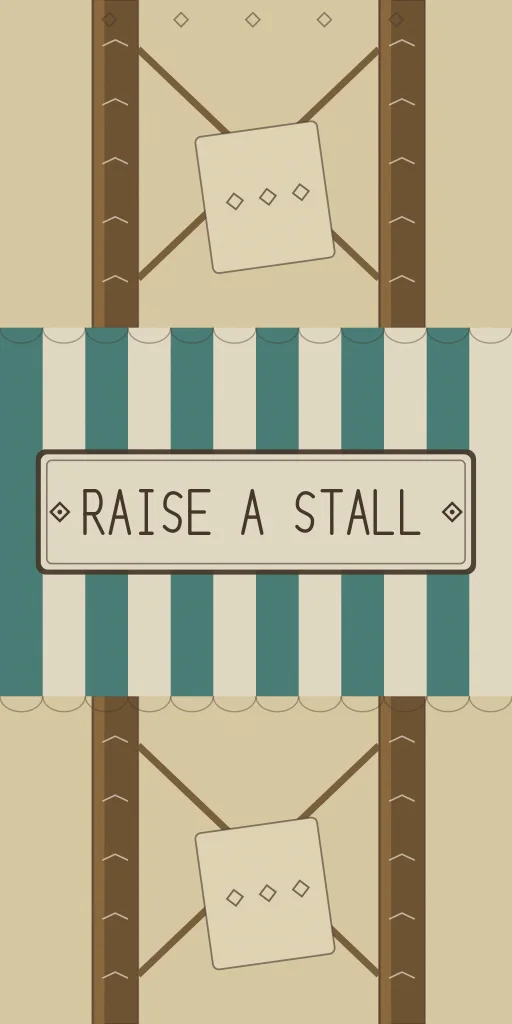
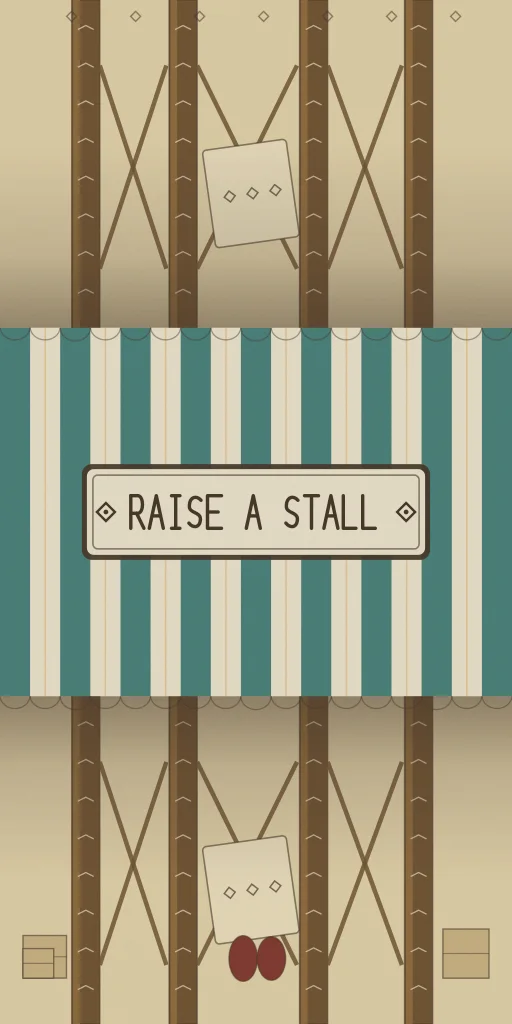
fix(labs/storybook): s6 bazaar polish — city value, pigeon die-cut, stall scale, turn-cull
Four scoped s6 fixes off the board eye-test; no geometry moves.

CITY BACKDROP too pale: the plane started at roseLit and then took a 0.62
sandLit haze, leaving a near-uniform wash the die-cut dome skyline had no
value to read against. Ground drops to `rose`, the haze top stop 0.62 ->
0.30 and its base ink 0.18 -> 0.34, the sky-band lift halves, and the
concentric street rings become the plane's value ladder (roseDim/terraDim)
instead of a tonal repeat of it. Soft recession kept; the crowns now have a
step against the black sky.

BLANK FINIAL at the backdrop crown was ch5-pigeon-a. Its painter built a
`pigeonCut` clipPath into a `defs` string and then never passed it to
svgPiece — a dangling url(#...) reference is ignored rather than honoured, so
the die-cut silently stopped cutting, the #b3a49c ground rect filled the
tile, and the piece baked with NO ALPHA and rendered as a kraft chevron. Both
pigeons now cut to their bird silhouette. (Audited every other painter: this
was the only dangling defs in the file.)

RAISE-A-STALL read as a giant tent, and the cause was stripe cadence, not
size. Its deck spans 0.28 world; at 12 stripes that is 0.0233 world/stripe
against the ~0.0165 every other awning in the spread paints, so the piece
nearest the reader announced itself as half again as big as the souk behind
it. Now 17 stripes at the house cadence, a valance scalloped to that pitch, a
saffron sub-stripe, four slim posts + crates/jars as scale rulers, a
[…]

diff --git a/components/labs/storybook/book/popup-tabpiece-layer.tsx b/components/labs/storybook/book/popup-tabpiece-layer.tsx
@@ -48,6 +48,7 @@ import {
   type TabPieceFace,
 } from './popup-tabpiece'
 import { peakHeight, shadowLift } from './shadow-light'
+import { turnCullOpacity } from './turn-cull'
 import { easeTurnWeighted } from './page-geometry'
 import { TURN_MS, type TurnFrame } from './use-turn-driver'
 import { useArtTexture } from './use-layer-texture'
@@ -212,6 +213,13 @@ export function TabPiecePopupLayer({
     [patches]
   )
 
+  // TURN-CULL opt-in (C-3). A culled piece must be able to RAMP, and an
+  // opacity ramp needs materials this piece alone owns and may write — the
+  // pool's own contract forbids mutating a shared material's opacity. So the
+  // flag also decides two allocation questions below: transparent exteriors,
+  // and an unpooled interior. Un-culled pieces keep the E-G4 pooling exactly.
+  const culled = layer.turnCull === true
+
   const paperTexture = sharedPaperTexture()
   const tabGripTexture = sharedTabGripTexture()
   const materials = useMemo(() => {
@@ -220,17 +228,35 @@ export function TabPiecePopupLayer({
         new THREE.MeshBasicMaterial({
           side: THREE.FrontSide,
           color: isShaded(p.face) ? PAINTED_FOLD_SHADE : '#ffffff',
+          transparent: culled,
         })
     )
     return { exterior }
-  }, [patches])
+  }, [patches, culled])
   // Every tab piece's underside is the same raw-paper-stock BackSide wall,
   // pooled (E-G4 fix wave) — shared with box/platform's interior material.
+  // A culled piece owns its copy instead: the pool is only safe for materials
+  // nobody writes after acquiring, and this one's opacity is written per frame
+  // through the cull ramp.
   const interiorMaterial = useMemo(
-    () => acquireMaterial({ side: THREE.BackSide, map: paperTexture, color: INTERIOR_SHADOW_TINT }),
-    [paperTexture]
+    () =>
+      culled
+        ? new THREE.MeshBasicMaterial({
+            side: THREE.BackSide,
+            map: paperTexture,
+            color: INTERIOR_SHADOW_TINT,
+            transparent: true,
+          })
+        : acquireMaterial({ side: THREE.BackSide, map: paperTexture, color: INTERIOR_SHADOW_TINT }),
+    [paperTexture, culled]
   )
-  useEffect(() => () => releaseMaterial(interiorMaterial), [interiorMaterial])
+  useEffect(
+    () => () => {
+      if (culled) interiorMaterial.dispose()
+      else releaseMaterial(interiorMaterial)
+    },
+    [interiorMaterial, culled]
+  )
 
   // The invisible grab handles (law H3/H6): an exact-tab mesh for mouse/pen
   // precision and a 1.5x slop mesh for touch. Both raycast (object visible)
@@ -420,12 +446,27 @@ export function TabPiecePopupLayer({
     )
     const beta = thetaL - thetaR
 
-    const visible = role !== 'hidden' && beta > FLAT_EPSILON
+    // TURN-CULL (C-3, the dial/winch/dissolve lever): a playable tab piece is
+    // the reader's instrument, not the spread's structure — mid-turn it is a
+    // sliver on a sheet sweeping past at speed and nobody is reading it, so it
+    // stops drawing and ramps back across the landing settle. `frame.t` is the
+    // driver's RAW published progress (turn-cull.ts is explicit that the eased
+    // value is still ~0 a fifth of the way in, which would put the fade nowhere
+    // near the specified window). Everything below — pose, lift, envelope,
+    // fold-flat — is untouched; hiding the group is what returns the draws.
+    const cull = culled ? turnCullOpacity(f?.t ?? 0) : 1
+    const visible = role !== 'hidden' && beta > FLAT_EPSILON && cull > 0
     group.visible = visible
     if (shadowGroupRef.current) shadowGroupRef.current.visible = visible
     if (!visible) {
       prevStructRef.current = null
       return
+    }
+    if (culled) {
+      for (const m of materials.exterior) m.opacity = cull
+      interiorMaterial.opacity = cull
+      for (const m of edgeMaterials) m.opacity = 0.8 * cull // its rest opacity, ramped
+      slitMaterial.opacity = 0.9 * cull
     }
 
     // --- Effective lift (laws H2/H3): reader drive, release return, or cam.
@@ -490,7 +531,7 @@ export function TabPiecePopupLayer({
     slitAttr.needsUpdate = true
     slitGeometry.computeBoundingSphere()
 
-    shadowMaterial.opacity = shadowSpec.maxOpacity * Math.sin(beta / 2) ** 2
+    shadowMaterial.opacity = shadowSpec.maxOpacity * Math.sin(beta / 2) ** 2 * cull
     prevStructRef.current = structVerts(solved)
   })
 

diff --git a/__tests__/labs/storybook/turn-cull.test.ts b/__tests__/labs/storybook/turn-cull.test.ts
@@ -101,3 +101,24 @@ describe('C-3 scope — which s4 pieces the cull is allowed to touch', () => {
     expect(['volvelle', 'keepwinch']).not.toContain(mechOf('ch3-keep'))
   })
 })
+
+describe('C-3 opt-in pieces — the flagged playables, and the structure left alone', () => {
+  const layerOf = (spread: number, id: string): SceneLayer =>
+    CHAPTERS.find((c) => c.spread === spread)!.layers.find((l) => l.id === id)!
+
+  it('ch5-raise-stall is culled — the s5->s6 turn pair was the last draw-budget miss', () => {
+    const stall = layerOf(6, 'ch5-raise-stall')
+    expect(stall.mech).toBe('tabpiece')
+    if (stall.mech === 'tabpiece') expect(stall.turnCull).toBe(true)
+  })
+
+  it('the OTHER tab piece stays uncalled: s5 goldpile is the spread\'s standing gold, not an instrument', () => {
+    // The flag costs a pooled material and moves the piece into the transparent
+    // pass, so it is opt-in per piece rather than per family. ch4-goldpile is
+    // the mound the treasure "grows" as the spread blooms — it reads as scene,
+    // and the s4->s5 pair already clears its budget without culling it.
+    const goldpile = layerOf(5, 'ch4-goldpile')
+    expect(goldpile.mech).toBe('tabpiece')
+    if (goldpile.mech === 'tabpiece') expect(goldpile.turnCull ?? false).toBe(false)
+  })
+})

diff --git a/components/labs/storybook/content.ts b/components/labs/storybook/content.ts
@@ -806,7 +806,13 @@ const CH5_LAYERS: readonly SceneLayer[] = [
   // repainted as stall posts, deck a striped awning mid-raise, the fore-edge
   // tab a woodcut ⟡ RAISE A STALL ⟡ cartouche (B-MEANING: the playable IS the
   // chapter's meaning — he carved the patterns any hands can raise).
-  { id: 'ch5-raise-stall', kind: 'midground', role: 'scenery', mech: 'tabpiece', side: 'left', form: 'table', hingeX: 0.9, z0: 0.36, z1: 0.64, legW: 0.18, deckD: 0.2, liftDeg: 60 },
+  // TURN-CULLED (Batch C-3, the dial/winch/dissolve lever): the spread's one
+  // interaction-only piece, and the s5->s6 turn pair was the book's last
+  // draw-budget miss (171.8 vs 170, gate-matrix G5). Its faces + hairlines +
+  // shadow stop drawing through the fast middle of a turn and ramp back
+  // inside the landing settle. Geometry is verbatim — no solver, pose or
+  // fold-flat proof is touched.
+  { id: 'ch5-raise-stall', kind: 'midground', role: 'scenery', mech: 'tabpiece', side: 'left', form: 'table', hingeX: 0.9, z0: 0.36, z1: 0.64, legW: 0.18, deckD: 0.2, liftDeg: 60, turnCull: true },
 ]
 
 // Chapter VI — the crescendo steps THROUGH the door (E3 s7 scene pack,

diff --git a/components/labs/storybook/book/popup-mechanics.ts b/components/labs/storybook/book/popup-mechanics.ts
@@ -399,6 +399,16 @@ export type TabPieceGeom = {
   restAtDeg?: number
   /** Visible tab width along the spine (default 0.1). */
   tabW?: number
+  /** Turn-time culling (Batch C-3, the dial/winch/dissolve lever): the piece
+   *  is a reader's playable rather than a spread's structure, so mid-turn it
+   *  stops drawing — the renderer ramps it out/in over the turn-cull window
+   *  (turn-cull.ts) and restores it inside the landing-settle beat. Visual
+   *  only: the solver, the pose, the fold-flat envelope and every containment
+   *  proof are untouched; the piece simply is not submitted. Opting IN also
+   *  costs the piece its pooled interior material and puts its faces in the
+   *  transparent pass, which is what buys the ramp — so set it only where the
+   *  mid-turn draws are worth that (see ch5-raise-stall). */
+  turnCull?: boolean
 }
 
 /**
